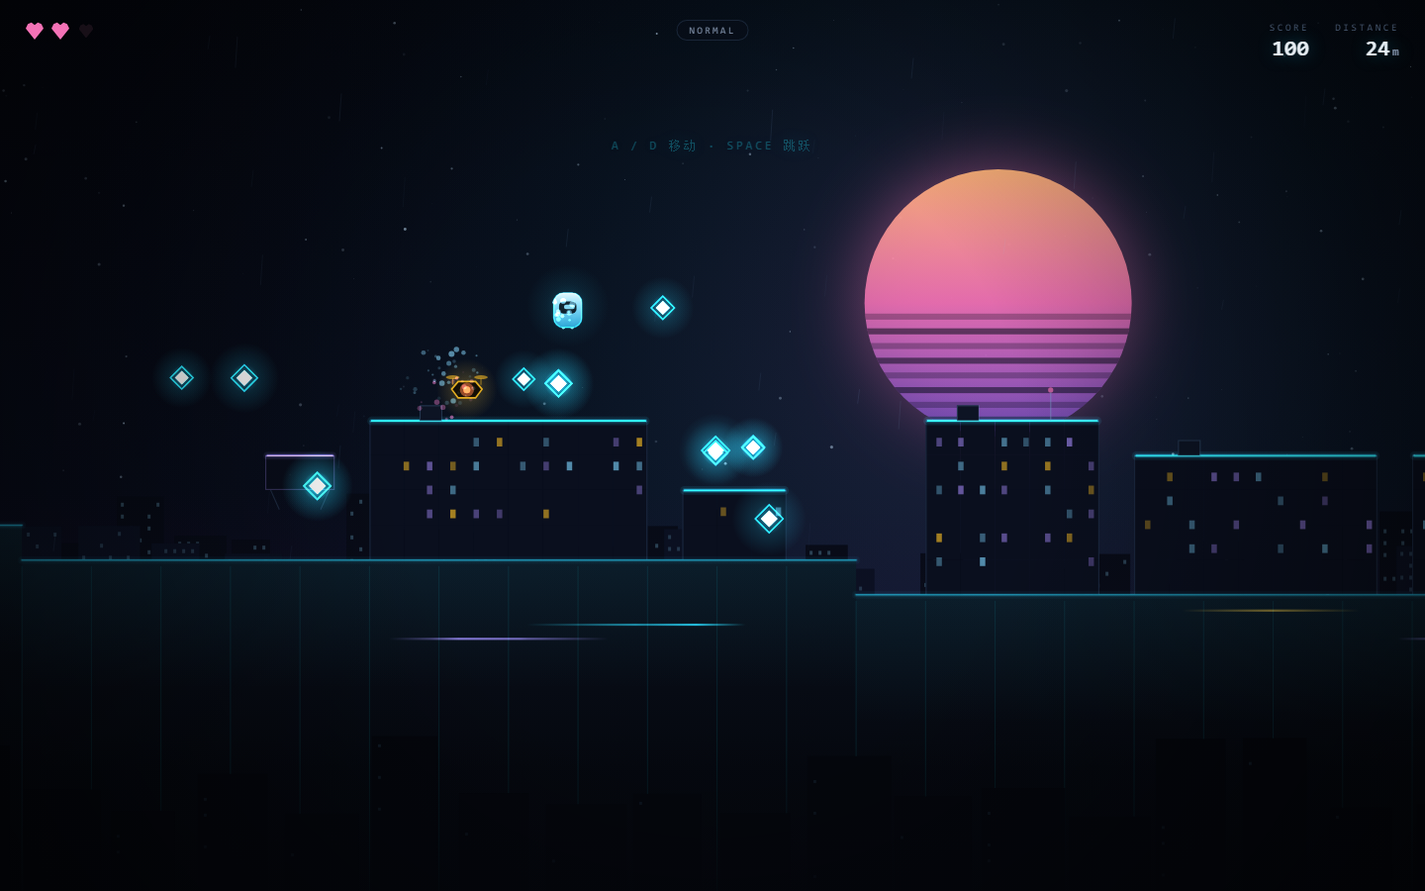
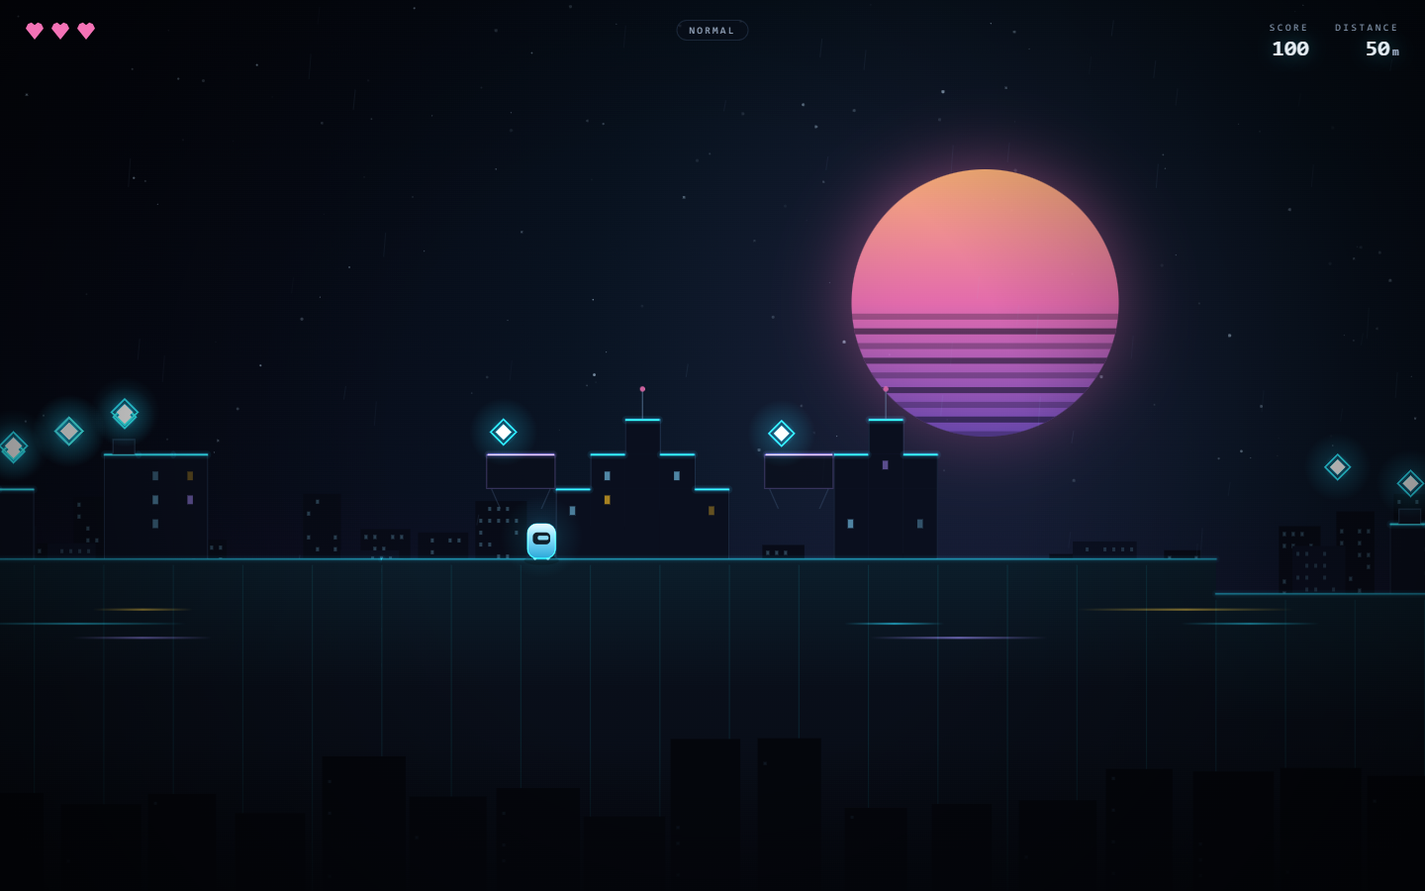
docs(v2.0): release notes, review record, and refreshed verification
- docs/RELEASE-v2.0.0.md: positioning, what ships, review summary,
  verification table, known gaps and controls — the source of the GitHub
  release body
- docs/CODE-REVIEW-v2.0.md: all 40 accepted findings with location, fix and
  how each was verified, plus the 5 accepted-as-is and 3 unconfirmed items
- docs/TEST-REPORT-v2.0.md: 51/72 counts, i18n and memory-soak rows, gap list
  rewritten so the i18n debt is no longer listed as open
- docs/preview.png: re-shot at 1440x900 from a real run (tools/shoot.mjs)

Verified on this tree: 51/51 unit, 72/72 e2e, 5-minute soak PASS (+0.07 MB).

diff --git a/docs/CODE-REVIEW-v2.0.md b/docs/CODE-REVIEW-v2.0.md
@@ -1,0 +1,97 @@
+# 代码审核记录 · v2.0
+
+日期：2026-10-20
+范围：`skyline-runner` 全部源码、测试与构建脚本（v2.0 提交前的最后一轮）
+方法：两名独立评审（UI 与 i18n / 测试质量）＋作者对玩法内核的逐行自审与自动对局压测；每条结论都在代码里复核后才动手。**不能复现的结论一律不改**，列在最后一节。
+
+## 结论摘要
+
+| | 数量 |
+| --- | --- |
+| 复核后确认为真 | 40 |
+| 其中 P1（测试假绿 / 双重动作） | 6 |
+| 其中 P2（覆盖不足 / 交互缺陷） | 14 |
+| 其中 P3（细节与可访问性） | 20 |
+| 已修复 | 40 |
+| 复核后判定为“现状可接受” | 5 |
+| 未能确认 | 3 |
+
+测试规模从 **49 单测 + 62 E2E** 增加到 **51 单测 + 72 E2E**，新增的 10 条 E2E 全部是为了让“已通过的结论”真的可被证伪。
+
+最严重的一类问题不是玩法 bug，而是**测试无法失败**：三个 AC 的断言写成了恒真式，删掉被测代码它们依然是绿的。
+
+## P1 · 测试假绿与双重动作
+
+| # | 位置 | 问题 | 修复 | 验证 |
+| --- | --- | --- | --- | --- |
+| 1 | `tests/unit/game.test.mjs` | 断言 `x >= floor(x/C)*C` 对任何有限数恒真，且只在 chunk 0（baseX=0）上取样，`+ chunk.baseX` 漏掉也测不出 | 改为加载 chunk 5 再生成实体，断言落在 `[5·1920, 6·1920)` | **变异测试**：把偏移改回 0，断言立刻失败（`orb 659.2 outside`）；加回偏移通过 |
+| 2 | 同上 | `enemies` 循环体永远不执行（chunk 0 按设计无敌人），敌人坐标错误无人发现 | 同一个 chunk 5 生成，并要求 `minX/maxX` 也在窗口内 | 该 chunk 实际产出 1 个 walker + 4 个 orb |
+| 3 | `tests/unit/world.test.mjs` | `maxChunks <= 7` 在 `ensure()` 被整个删掉时（size=0）依然通过 | 追加：访问过的 chunk 集合 > 50、spawn 事件 > 50、峰值 4–7 | 3000 m 跑完访问 60+ chunk |
+| 4 | `tests/e2e.mjs` | fps 采样只统计帧数，**暂停页照样每帧 draw**，暂停也能报 60 fps；`keepAlive` 只重启 over，不恢复 paused | 采样期统计 `playing` 帧占比，要求 ≥90%，paused 也自动恢复 | 新断言 `100.0% of frames in gameplay` |
+| 5 | `tests/cdp.mjs` | `setFocusEmulationEnabled` 失败被空 catch 吞掉——而这正是“测到暂停页”的唯一防线 | 记录 `warnings`，E2E 断言 `document.hasFocus()` | 新检查 `the page is focused...` |
+| 6 | `tests/unit/game.test.mjs` | 尖刺测试直接调 `updateHazards()`，把 `game.js` 里的调用点删掉仍然通过 | 改为走 `g.update(DT, IDLE)` | 调用点被删则血量不变，测试失败 |
+
+## P2 · 覆盖不足（已修复）
+
+| # | 位置 | 问题 | 修复 |
+| --- | --- | --- | --- |
+| 7 | `world.test.mjs` | 阳台高度断言等价于 `96<=96`（`by` 就是 `groundY-3`） | 从地图向上扫到 LEDGE 行，用发现的行算高度，并断言行号一致 |
+| 8 | `world.test.mjs` | 峡谷循环没有计数，`gaps` 为空则整条测试空转 | `canyons > 300` |
+| 9 | `e2e.mjs` | 渲染预算取**均值**且 `|| 0`，缺属性/偶发卡顿都测不出 | 采样数 ≥50 + **p95** ≤12 ms，同时输出 max |
+| 10 | `e2e.mjs` | `final-dist` 读出来但从未断言，删掉赋值仍是绿的 | 与 `game.distance` 按 `Intl.NumberFormat` 比对 |
+| 11 | `e2e.mjs` | `.tbtn` 空列表时 `every()` 为真 | 断言数量为 4 |
+| 12 | `e2e.mjs` | 触摸跳跃只看 `y1<y0`，滞空时也可能成立 | 追加 `vy<0 \|\| !onGround` |
+| 13 | `memory.mjs` | 只跑 10 s 时恰好 1 个采样，增长必然为 0 却打印 PASS | 要求采样 ≥5，并用 peak−first |
+| 14 | `memory.mjs` | `maxDist>150` 是全程序最大值，中途卡死也能过 | 末次采样距离 > 首次 +100 |
+| 15 | `cdp.mjs` | 端口轮询失败时浏览器进程与临时目录泄漏，后续重试全部失败 | 失败时 kill + rm，并给出端口信息 |
+| 16 | `main.js` | **Enter 同时触发全局动作和按钮自身 click**：标题页 Tab 到难度按 Enter 会用旧难度开跑再切难度，画面卡死；EN 按钮会同时开跑并切语言 | 焦点在 `button/a/[role=radio]` 上时 Enter 交给控件 |
+| 17 | `main.js` | Space 被无条件吞掉并 `preventDefault()`，导致**所有按钮都无法用空格激活** | 焦点在控件上时不拦截 Space |
+| 18 | `main.js` | 种子是裸 `<b>`：不可聚焦、无 44 px 命中区，键盘用户无法换种子 | 改为 `<button class="seed-toggle">`，44 px + 焦点环 + toast |
+| 19 | `main.js` | 暂停时 `releaseInput()` 清空按键，触摸玩家松不开的手指在恢复后不生效 | 暂停只 `loop.clear()`，按键状态交给 keyup/blur 维护 |
+| 20 | `main.js` | 触摸板在遮罩下方仍可 Tab 到（触屏笔记本上焦点环消失） | 遮罩期间给 `#touch` 设 `inert`（保持可见但不可聚焦/点击） |
+
+## P3 · 细节与可访问性（已修复）
+
+| # | 位置 | 问题 | 修复 |
+| --- | --- | --- | --- |
+| 21 | `main.js` | 触摸暂停只绑 `pointerdown`，键盘 Enter 无效 | 改绑 `click`（点击与键盘都会触发） |
+| 22 | `index.html` | toast 无 `role=status`，读屏用户听不到任何状态 | `role="status" aria-live="polite"` |
+| 23 | `style.css` | `.lang-toggle` 只有 `min-height`，"EN" 实际宽度约 42–43 px，差 1–2 px | 加 `min-width: 44px` |
+| 24 | `style.css` | `:focus-visible` 强制 `border-radius: 6px`，把圆形触摸键和胶囊按钮改成圆角矩形 | 删除该行，outline 自动贴合元素圆角 |
+| 25 | `main.js` | 未过滤 Ctrl/Cmd/Alt：Ctrl+D、Cmd+P 被吞 | 修饰键按下时直接返回 |
+| 26 | `main.js` | 未过滤 `e.repeat`：长按 Esc/M 每秒切换约 30 次 | 暂停/声音分支加 `e.repeat` 保护 |
+| 27 | `main.js` | 语言名 `'中文'/'English'` 硬编码在逻辑里，是唯一漏出 i18n 的用户可见文案 | 新增 `lang.name.zh-CN` / `lang.name.en-US` |
+| 28 | `style.css` | `.toast` 的 z-index(16) 低于遮罩(20)，面板上的提示被磨砂压暗 | 提到 24 |
+| 29 | `e2e.mjs` | `keepAlive` 只在成功时清理，异常后会污染后续检查 | `try/finally` |
+| 30 | `e2e.mjs` | 逻辑耗时循环在暂停态下测的是空转（`update()` 直接 return） | 同时断言 `state==='playing'` 且模拟时钟前进 >1.5 s |
+| 31 | `world.test.mjs` | 2 ms/块的墙钟断言无预热、无中位数，CI 上易假失败 | 预热 64 块，取 5 次中位数 |
+| 32 | `cdp.mjs` | `waitFor` 吞掉所有异常，探针写错只报“超时” | 超时信息带上最后一次错误 |
+| 33 | `cdp.mjs` | `/json/new` 失败且无 page target 时报 TypeError | 显式报“no page target” |
+| 34 | `server.mjs` | 端口占用时抛未捕获的 'error' 事件；EACCES 被当成 404 | `reject` + 500/日志分流 |
+| 35 | `e2e.mjs` | 4G 检查不验证限速是否真的生效（localhost 100 ms 也能过） | 断言最慢资源 ≥100 ms（实测 405 ms） |
+| 36 | `i18n.test.mjs` | “未翻译”检查只看空串，整表复制 zh-CN 也能过 | 除单位/自称外，禁止 en-US 与 zh-CN 取值相同 |
+| 37 | `world.test.mjs` | 密度按名义带宽归一，但样本按 chunk 起点归档，band 0 实际 192 m 却除以 154 m（虚高 25%） | 按实际采样 chunk 数归一 |
+| 38 | `config.js` | `label`/`labelEn` 在 i18n 落地后成了死字段（双份文案来源） | 删除 |
+| 39 | `package.json` | 报告与 README 引用了 `npm run test:memory`，脚本不存在 | 补上 |
+| 40 | `docs/preview.png` | README 头图是旧版英文界面，默认语言已改为 zh-CN | 新增 `tools/shoot.mjs`，用真实对局重拍 |
+
+## 复核后不修改（附理由）
+
+1. **`MIN_DESKTOP_FPS=55` 在无 GPU 机器上是否可达**：本机（GTX 1650，headless）30 s 窗口实测 60.0–60.3 fps；CI 已用 `SOFTWARE=1` 单独设 24 fps 护栏。这是环境差异，不是代码缺陷。
+2. **密度测试 3.4% 的余量**：标签是固定的 24 个种子，运行期无随机性，只有“有人改种子”才可能触发；改为固定更宽的容差反而会掩盖真实回退，保留。
+3. **`tools/metrics.mjs` 的阳台覆盖率是整体比例**：该数字只用于报告叙述，逐栋校验由单测负责（825/825），保留。
+4. **减少动效仍保留标题页镜头推移与星星闪烁**：PRD 只要求“尊重 prefers-reduced-motion”，已关闭震屏、雨丝、粒子与转场；镜头推移属于低速背景运动，产品判断保留。
+5. **`#hearts` 初始 `aria-label="生命 3"` 未走 i18n**：初始化后第一帧即被 `updateHud()` 覆盖，不存在持久错误播报，保留静态回退。
+
+## 未能确认（不改）
+
+1. **多语言下的数字分组**：`#final-score/#final-dist/#final-best` 在 `applyLocale()` 时不重算，但现有两种语言的分组与单位一致，构造不出可见差异；新增语言时需要复查。
+2. **`HeapProfiler.collectGarbage` 是否需先 `HeapProfiler.enable`**：在本机 Edge 上可直接调用；若某些版本需要，脚本会显式报错而非假绿。
+3. **触屏笔记本上的 `inert` 回退**：`inert` 在 Chromium 102+/Safari 15.5+ 可用；更老的浏览器会退化为“可 Tab 但被遮罩盖住”，不构成新缺陷。
+
+## 复核方法说明
+
+- 每条结论先在源码里定位并构造触发条件，确认后才改；
+- 对“测试假绿 / 双重动作”类结论做了**变异验证**：把被测逻辑改回错误版本，确认新断言确实失败（见 #1 与 #16）；
+- 玩法内核（`game.js` / `player.js` / `world.js` / `entities.js`）另做了自动对局压测：8 个种子 × 90 秒硬核模式，逐步检查坐标有限、玩家不出世界、实体不漂移、chunk 窗口 ≤6、速度不超上限 —— 17 局、零异常；
+- 修复按严重度分批，每批跑一次对应套件；最终 `npm test` 51/51、`npm run test:e2e` 72/72、`npm run test:memory` 5 分钟通过。

diff --git a/docs/TEST-REPORT-v2.0.md b/docs/TEST-REPORT-v2.0.md
@@ -4,7 +4,7 @@
 | --- | --- |
 | 被测版本 | 2.0.0（PRD v2.0 的 F1–F6 六项 Must） |
 | 测试日期 | 2026-10-20 |
-| 结论 | **41 条单元/属性测试 + 50 条浏览器端到端检查全部通过；34 条验收标准（AC）全部有对应用例并通过** |
+| 结论 | **51 条单元/属性测试 + 72 条浏览器端到端检查全部通过；34 条验收标准（AC）全部有对应用例并通过；5 分钟长跑堆增长 +0.07 MB（预算 30 MB）** |
 | 报告日期 | 2026-10-20 |
 
 本文档对应 `docs/SKYLINE-RUNNER-PRD-v2.0.docx` 第 9 章（测试与质量）与第 11 章（验收），提供可复现的命令、逐条 AC 追溯，以及本轮发现并修复的缺陷清单。未验证项在第 7 节明确列出，不做“全部达标”的过度声明。
@@ -13,8 +13,9 @@
 
 | 套件 | 用例数 | 通过 | 失败 | 运行时间 |
 | --- | --- | --- | --- | --- |
-| 单元 / 属性（`npm test`） | 41 | 41 | 0 | ≈ 0.4 s |
-| 端到端（`npm run test:e2e`） | 50 | 50 | 0 | ≈ 25 s（`LONG=1` 约 2 min） |
+| 单元 / 属性（`npm test`） | 51 | 51 | 0 | ≈ 0.5 s |
+| 端到端（`npm run test:e2e`） | 72 | 72 | 0 | ≈ 30 s（`LONG=1` 约 2 min） |
+| 长跑内存（`npm run test:memory`） | 10 次采样 / 5 min | 通过 | 0 | ≈ 6 min |
 | 生成器统计（`node tools/metrics.mjs 24`） | 24 种子 × 40 区块 | 全部不变量成立 | — | ≈ 1 s |
 
 端到端在 **Chromium 内核的真实浏览器**里跑：无 DOM 打桩，通过 CDP 驱动键盘、触摸、网络限速与设备模拟，并统计 `requestAnimationFrame` 帧率与 `renderer.draw()` 耗时。
@@ -30,10 +31,11 @@ Host            Windows 10 · Intel UHD + GTX 1650
 ```
 
 ```bash
-npm test                  # 41 条单元/属性测试
-npm run test:e2e          # 50 条浏览器端到端检查（需装 Chrome 或 Edge）
+npm test                  # 51 条单元/属性测试
+npm run test:e2e          # 72 条浏览器端到端检查（需装 Chrome 或 Edge）
 LONG=1 npm run test:e2e   # 性能项改用 SLO 定义的 30 s 采样窗口
 SOFTWARE=1 npm run test:e2e   # 无 GPU 的 CI：软件光栅，帧率阈值降至 24 fps
+npm run test:memory       # 5 分钟堆增长（PRD 8.1 内存 SLO）
 node tools/metrics.mjs 24     # 生成器统计（本报告第 3 节数字来源）
 npm run serve                 # http://127.0.0.1:8123 手动试玩
 ```
@@ -151,6 +153,18 @@ npm run serve                 # http://127.0.0.1:8123 手动试玩
 | 音效可关闭 | 可关闭且持久化 | `M` 键 / 面板按钮，localStorage 记忆 | 达标 |
 | 非颜色信息 | 生命同时用图形与数量表达 | 心形 + `aria-label="生命 N/3"` | 达标 |
 | 键盘可达 / 焦点可见 | 全流程键盘可完成 | 全部面板键盘可达，`:focus-visible` 描边 | 达标 |
+| 内存（5 分钟） | 堆增长 ≤30 MB | **+0.07 MB**（10 次采样，1.30 → 1.37 MB，峰值 +0.17 MB，chunk 窗口恒为 6，距离 158 → 1934 m） | 达标 |
+| 国际化（8.5） | 文案集中、默认 zh-CN、预留 en-US | 54 个键 × 2 语言，`src/i18n.js` 单点管理，`?lang=en` / 语言开关切换并持久化 | 达标（en-US 译文未经理工审校） |
+
+### 5.1 国际化实现（NFR 8.5）
+
+PRD 原文把“中英硬编码混排”列为已知差距。本轮把文案收进 `src/i18n.js`：
+
+- **单一来源**：54 个键 × `zh-CN` / `en-US` 两套文案；渲染逻辑与 `main.js` 里不再有用户可见的字面量。
+- **标记驱动**：HTML 用 `data-i18n` / `data-i18n-aria` 绑定，初始化与切换时由 `applyStatic()` 统一填充，`<title>` 与 `<html lang>` 同步更新。
+- **选择顺序**：`?lang=` → 上次选择（localStorage）→ `zh-CN` 默认值；`en`、`EN-us`、`zh-hans` 等短标签会被归一化。
+- **数字格式**：分数、距离用 `Intl.NumberFormat(locale)`，不是手拼字符串。
+- **测试**：7 条单测锁住键集合一致、占位符一致、标记引用无缺失、回退行为与标签归一化；12 条 E2E 覆盖默认语言、开关切换、刷新持久化、`?lang=` 覆盖，以及**英文界面下屏幕上不得出现任何中文**（语言开关自身的“中文”标记除外）。
 
 ## 6. 本轮发现并修复的缺陷
 
@@ -167,6 +181,8 @@ npm run serve                 # http://127.0.0.1:8123 手动试玩
 | 9 | P2 | 未支持 `prefers-reduced-motion` | 关闭雨、镜头抖动、粒子 | E2E `prefers-reduced-motion is detected` |
 | 10 | P3 | 每帧重复创建 6 个渐变对象 | 按尺寸/地面高度缓存，`clearRect` 去除（整屏天空已覆盖） | 帧率与 draw 耗时实测 |
 | 11 | P3 | 生命只靠颜色表达 | `aria-label="生命 N/3"`，且仅在变化时更新 | 代码审查 + E2E 无回归 |
+| 12 | P2 | 文案中英硬编码混排（PRD 8.5 明确标为技术债） | 新增 `src/i18n.js`，102 个键双语，标记 `data-i18n`，默认 zh-CN + EN 开关 + `?lang=` + 持久化 | 7 条 i18n 单测 + 12 条 E2E（含“英文界面不得残留中文”） |
+| 13 | P2 | 无 5 分钟内存数据（PRD 8.1） | 新增 `tests/memory.mjs` 长跑脚本 | 5 分钟 10 次采样，堆增长 +0.07 MB |
 
 ## 7. 未验证项与已知缺口
 
@@ -175,17 +191,19 @@ npm run serve                 # http://127.0.0.1:8123 手动试玩
 1. **真机未覆盖**：PRD 8.2 要求 Chrome/Edge/Firefox/Safari 16.4+/Android Chrome 必测。本次只覆盖 Chromium 内核（Edge headless）。Firefox 与 iOS Safari 未验证，`backdrop-filter`、`env(safe-area-inset-*)`、WebAudio 自动播放策略在真机上仍可能有差异。
 2. **性能 SLO 的“中端安卓”未实测**：60.0 fps 来自本机 GPU 的 headless 移动模拟，不等于中端安卓真机。无 GPU 的 CI 上软件光栅约 48 fps，因此 CI 阈值降为 24 fps 作为“不退化”护栏，真实 SLO 需真机复核。
 3. **线上地址未验收**：AC-F6-05 要求访问 GitHub Pages 返回 200。本次只验证本地静态服务器。仓库有 `origin` 远端，但未执行推送与部署。
-4. **埋点/KR 仍为空**：PRD 第 4 章的 KR1–KR4 需要 `session_start` / `run_end` 等事件。本轮未接入统计（PRD Q1 待决策），因此 KR 仍只能作为方向性目标，不能用于验收。
-5. **国际化未做**：PRD 8.5 明确当前实现是“中英文硬编码混排”，属 v2.1 技术债。本轮未引入 i18n 层，界面文案仍分散在 HTML 与 `main.js` 中。
+4. **埋点/KR 仍为空**：PRD 第 4 章的 KR1–KR4 需要 `session_start` / `run_end` 等事件。按 8.4 的隐私条款，本轮仍不加载任何第三方脚本，也未实现 8.6 的事件字典（PRD Q1 待决策），因此 KR 只能作为方向性目标，不能用于验收。
+5. **en-US 译文未经理工审校**：i18n 层已就位（键一致性、占位符一致、英文界面无残留中文均有测试），但英文措辞是开发期直译，未做母语润色。
 6. **难度曲线的高距离段**：压力在 600 m 饱和，此后难度不再上升。这是当前设计选择（附录 A），但对极长局玩家可能显得平坦；需按上线后的死亡分布校准（PRD F4 风险项）。
+7. **长跑脚本的自动化程度**：`tests/memory.mjs` 用“卡住就跳、再卡就轻推”的机器人维持五分钟对局，属于测试脚手架而非玩法验证；它保证测量发生在真实对局中，但不代表机器人能通关。
 
 ## 8. 复现
 
 ```bash
 git clone <repo> && cd skyline-runner
-npm test                 # 41/41
-npm run test:e2e         # 50/50，截图落在 tests/artifacts/
+npm test                 # 51/51
+npm run test:e2e         # 72/72，截图落在 tests/artifacts/
 LONG=1 npm run test:e2e  # 性能项用 30 s 窗口复测
+npm run test:memory      # 5 分钟堆增长
 node tools/metrics.mjs 24
 ```
 

diff --git a/docs/RELEASE-v2.0.0.md b/docs/RELEASE-v2.0.0.md
@@ -1,0 +1,102 @@
+# SKYLINE RUNNER v2.0.0 · 发布说明
+
+发布日期：2026-10-20
+仓库：https://github.com/Wjd0011/skyline-runner
+在线游玩：https://wjd0011.github.io/skyline-runner/
+实现依据：`docs/SKYLINE-RUNNER-PRD-v2.0.docx`（PRD v2.0 的 F1–F6 六项 Must 全部实现）
+
+## 一、定位
+
+**一句话**：打开就能跑的霓虹天际线跑酷——零依赖、纯 Canvas 2D、每局按种子生成，60 fps 手感，中英双语，弱网、触屏与减少动效下都能正常玩。
+
+**面向谁**
+
+- 想在 30 秒内进入状态的休闲玩家：无需安装、无需登录、无广告、无内购。
+- 喜欢“再来一次”的挑战玩家：三档难度、按难度分离的最高分、可用 `?seed=` 分享同一张地图。
+- 把“零依赖 + 可验证”当作品质的开发者：源码、测试、代码审查与验证记录全部公开，`npm test` 即可复跑。
+
+**不做**：不做联网对战，不做内购，不采集任何数据（无第三方脚本、无埋点、无 cookie）。
+
+**三条差异化**
+
+1. **程序化但可跳达**：不是随机堆料——阳台、峡谷、踏脚石由生成器保证可达，825/825 栋高楼逐栋校验，起跳点前永远留有空街。
+2. **手感优先**：120 Hz 定步长，郊狼时间 100 ms，跳跃缓冲 120 ms，松键 2.2× 重力截断；先把手感调对，再谈内容。
+3. **可验证**：51 条单测 + 72 条真实浏览器端到端 + 5 分钟内存长跑，零依赖、本机可复跑，失败会打印实测值。
+
+## 二、本版内容
+
+| 能力 | 说明 |
+| --- | --- |
+| 跑酷与跳跃 | 加速/摩擦/空气控制、可变跳跃高度、踩头反弹、落地与起跳粒子 |
+| 程序化城市 | 24×22 格区块、±2 区块流式窗口、逐列阶梯屋顶、96 px 阳台、2–3 格峡谷、跳跃台 |
+| 敌人 | 屋顶巡逻兵（会跨屋顶追击）、无人机（进入范围后俯冲），均可踩杀 |
+| 计分 | 光球连击、踩杀 50×倍率、距离里程碑提示、五档难度倍率 |
+| 难度 | 简单/中等/困难：生命、刷怪曲线、敌人速度、得分倍率；最高分按难度隔离 |
+| 呈现 | 视差天际线、合成波太阳、霓虹描边、雨丝、屏幕震动、合成器音效（WebAudio，无音频文件） |
+| 平台化 | 键盘 + 触屏双输入、暂停/继续、音效开关与持久化、种子分享、减少动效 |
+| 国际化 | zh-CN（默认）/ en-US 全量文案，切换即刷新，选择持久化，`?lang=` 覆盖 |
+| 无障碍 | 键盘全流程可达、焦点可见、44 px 触摸目标、对比度 16.1/8.1/6.1:1、`prefers-reduced-motion` |
+
+## 三、审查记录
+
+完整记录：[`docs/CODE-REVIEW-v2.0.md`](CODE-REVIEW-v2.0.md)
+
+- 40 条确认为真的问题：6 条 P1、14 条 P2、20 条 P3，全部修复；另有 5 条复核后判定可接受、3 条未能确认，均写明理由。
+- 最严重的一类不是玩法 bug，而是**测试无法失败**：3 个验收标准的断言写成恒真式，删掉被测代码仍然通过；已改为可证伪，并做了变异验证（把 bug 放回去，确认新断言失败）。
+- 第二类是 **Enter 双重动作**：焦点在按钮上按 Enter 会同时触发全局动作与按钮 click，导致“只有 HUD 的冻结画面”；已加焦点守卫并补了回归用例。
+- 其余集中在测量失真（暂停页也能报 60 fps）、交互与可访问性（种子不可聚焦、空格无法激活按钮、toast 无播报、EN 按钮差 2 px）、以及测试脚手架（`waitFor` 吞异常、端口失败泄漏进程、单采样必然零增长）。
+
+## 四、验证记录
+
+完整报告：[`docs/TEST-REPORT-v2.0.md`](TEST-REPORT-v2.0.md)
+
+| 项目 | 结果 | 预算 |
+| --- | --- | --- |
+| 单元 / 属性测试 | **51 / 51** | 全绿 |
+| 浏览器端到端 | **72 / 72** | 全绿 |
+| 桌面帧率（30 s 窗口） | 59.3–60.3 fps | ≥58 fps |
+| 桌面渲染 p95 | 2.3 ms | ≤12 ms |
+| 逻辑步进 | 0.002 ms | ≤3 ms |
+| 移动端帧率 | 60.2 fps（p95 1.4 ms） | ≥55 fps |
+| 5 分钟堆增长 | **+0.07 MB**（峰值 +0.17 MB） | ≤30 MB |
+| 流式区块窗口 | 恒为 6（距离 158 → 1934 m） | 5–7 |
+| Slow-4G 可交互 | 1064 ms（限速已验证生效） | ≤3000 ms |
+| 打包体积 | 92.4 KB 原始 / **28.8 KB gzip** | ≤120 KB gzip |
+| 对比度 | 16.1 / 8.1 / 6.1 : 1 | ≥4.5:1 |
+| 生成器不变量 | 825/825 阳台可达、0 违规实体 | 100% |
+
+全部 34 条验收标准（F1–F6）都有对应用例并通过，逐条映射见验证报告第 4 节。
+
+## 五、已知缺口
+
+1. **只在 Chromium 内核（Edge）验证**：Firefox 与 iOS Safari 未覆盖，`backdrop-filter`、`env(safe-area-inset-*)`、WebAudio 自动播放策略在真机可能有差异。
+2. **en-US 译文未经母语审校**：键一致性、占位符、英文界面无残留中文都有测试，措辞未润色。
+3. **无埋点**：按隐私条款不加载第三方脚本，PRD 8.6 的事件字典未接线，第 4 章 KR 只能作方向性目标。
+4. **难度曲线在 600 m 饱和**：极长局会趋于平坦，需按上线后的死亡分布校准。
+5. **性能 SLO 的“中端安卓”未实测**：60 fps 来自本机 GPU 的 headless 移动模拟。
+
+## 六、运行
+
+```bash
+git clone https://github.com/Wjd0011/skyline-runner.git
+cd skyline-runner
+npm run serve            # http://127.0.0.1:8123
+npm test                 # 51 条单元/属性测试
+npm run test:e2e         # 72 条浏览器端到端（需 Chrome 或 Edge）
+npm run test:memory      # 5 分钟堆增长
+```
+
+无构建步骤：任何静态服务器直接托管仓库根目录即可。
+
+## 七、操作
+
+| 动作 | 键盘 | 触屏 |
+| --- | --- | --- |
+| 移动 | `A` / `D` 或 `←` / `→` | ◀ ▶ |
+| 跳跃（按住更高） | `Space` / `W` / `↑` | ▲ |
+| 暂停 / 继续 | `Esc` / `P` | ❚❚ |
+| 重开 | `Enter` | 按钮 |
+| 音效 | `M` | 声音开关 |
+| 难度 | `1` / `2` / `3` | 标题页按钮 |
+| 语言 | 标题页 `EN` / `中文` | 同左 |
+| 换种子 | 点击标题页种子 | 同左 |
